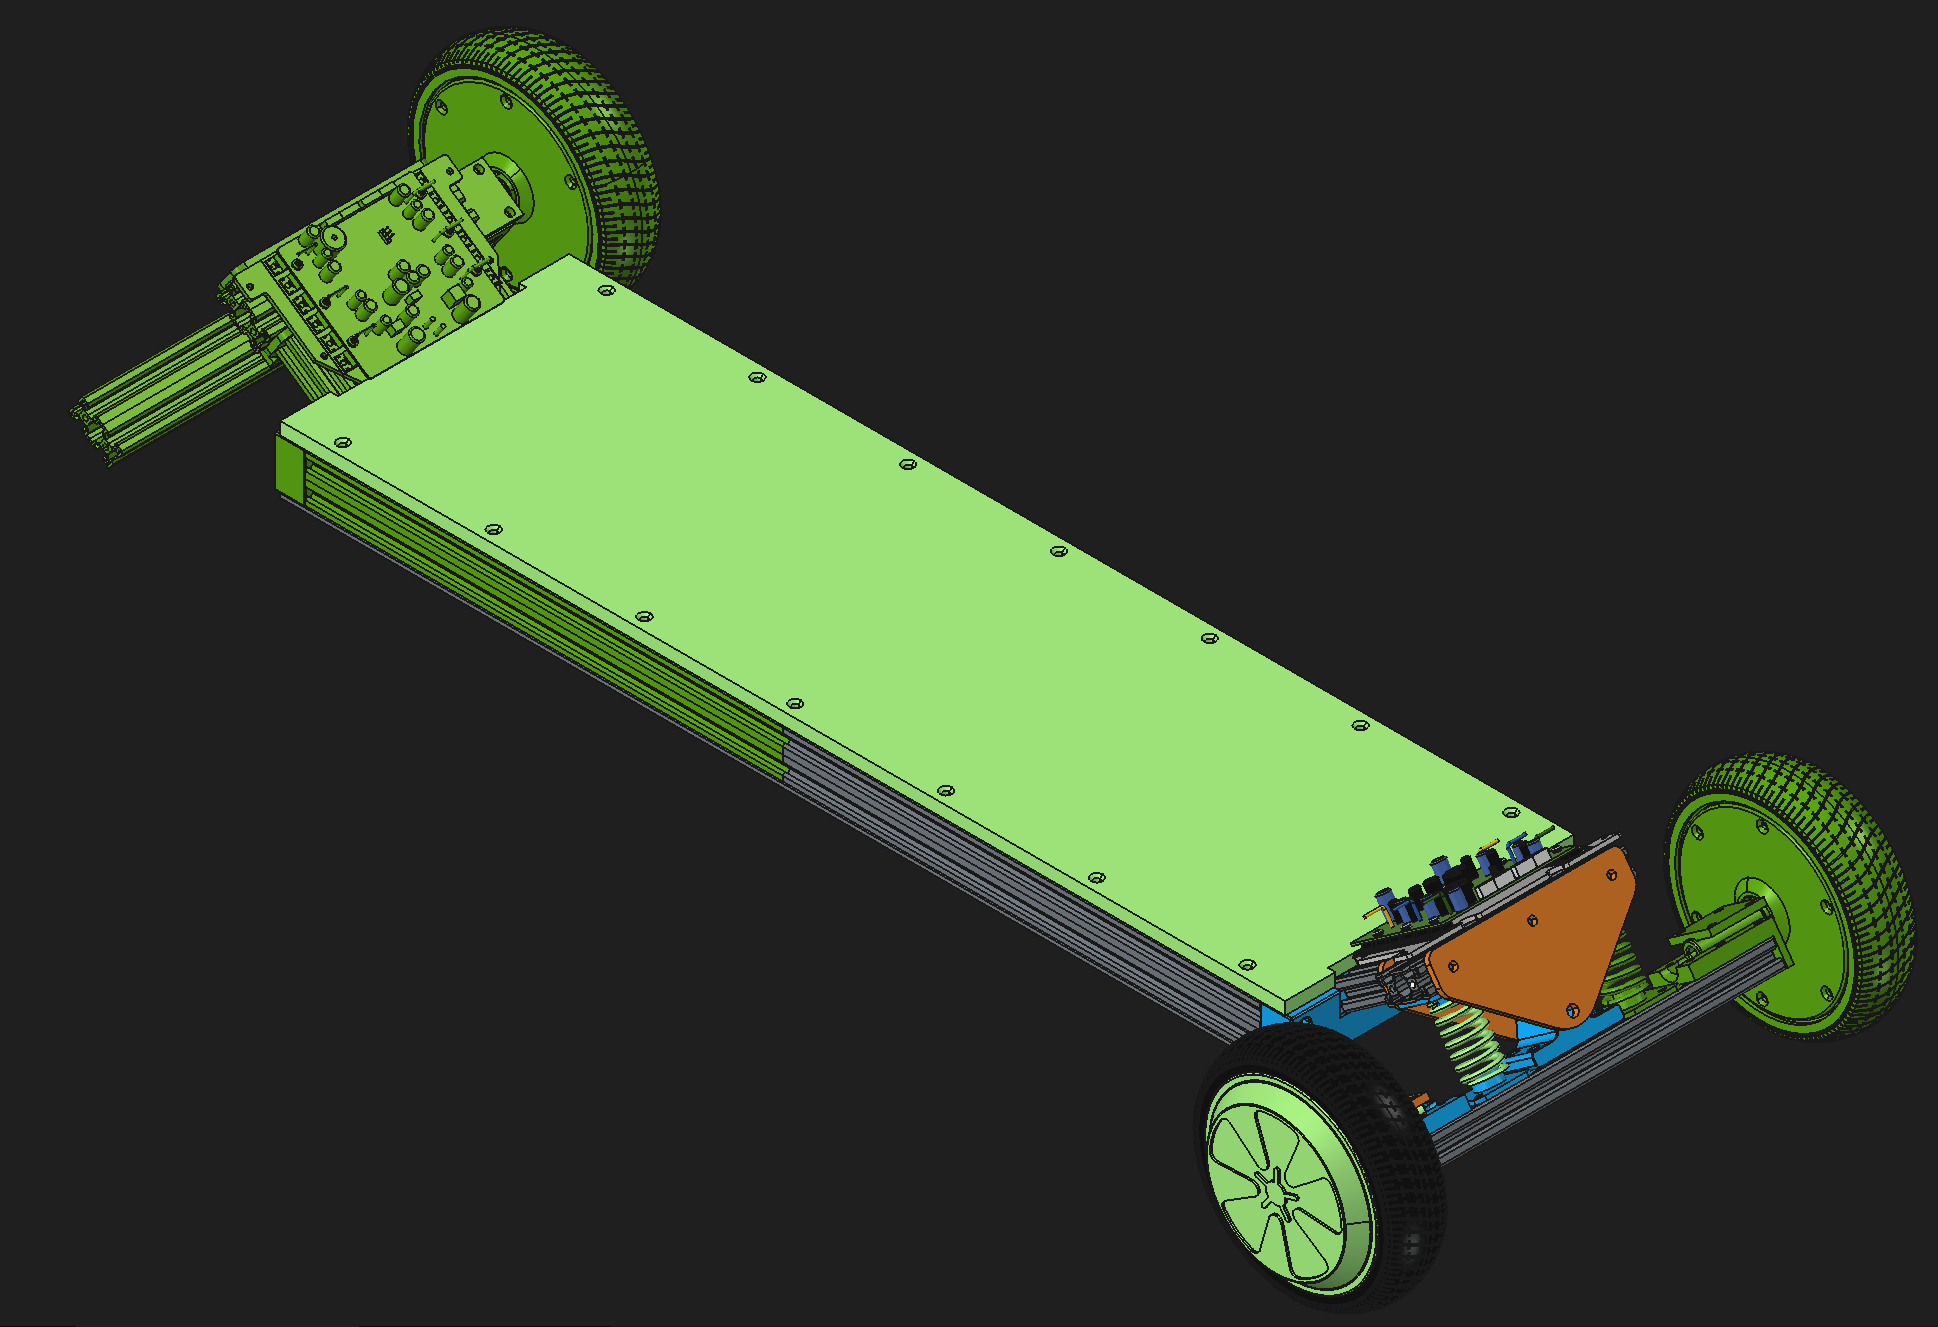
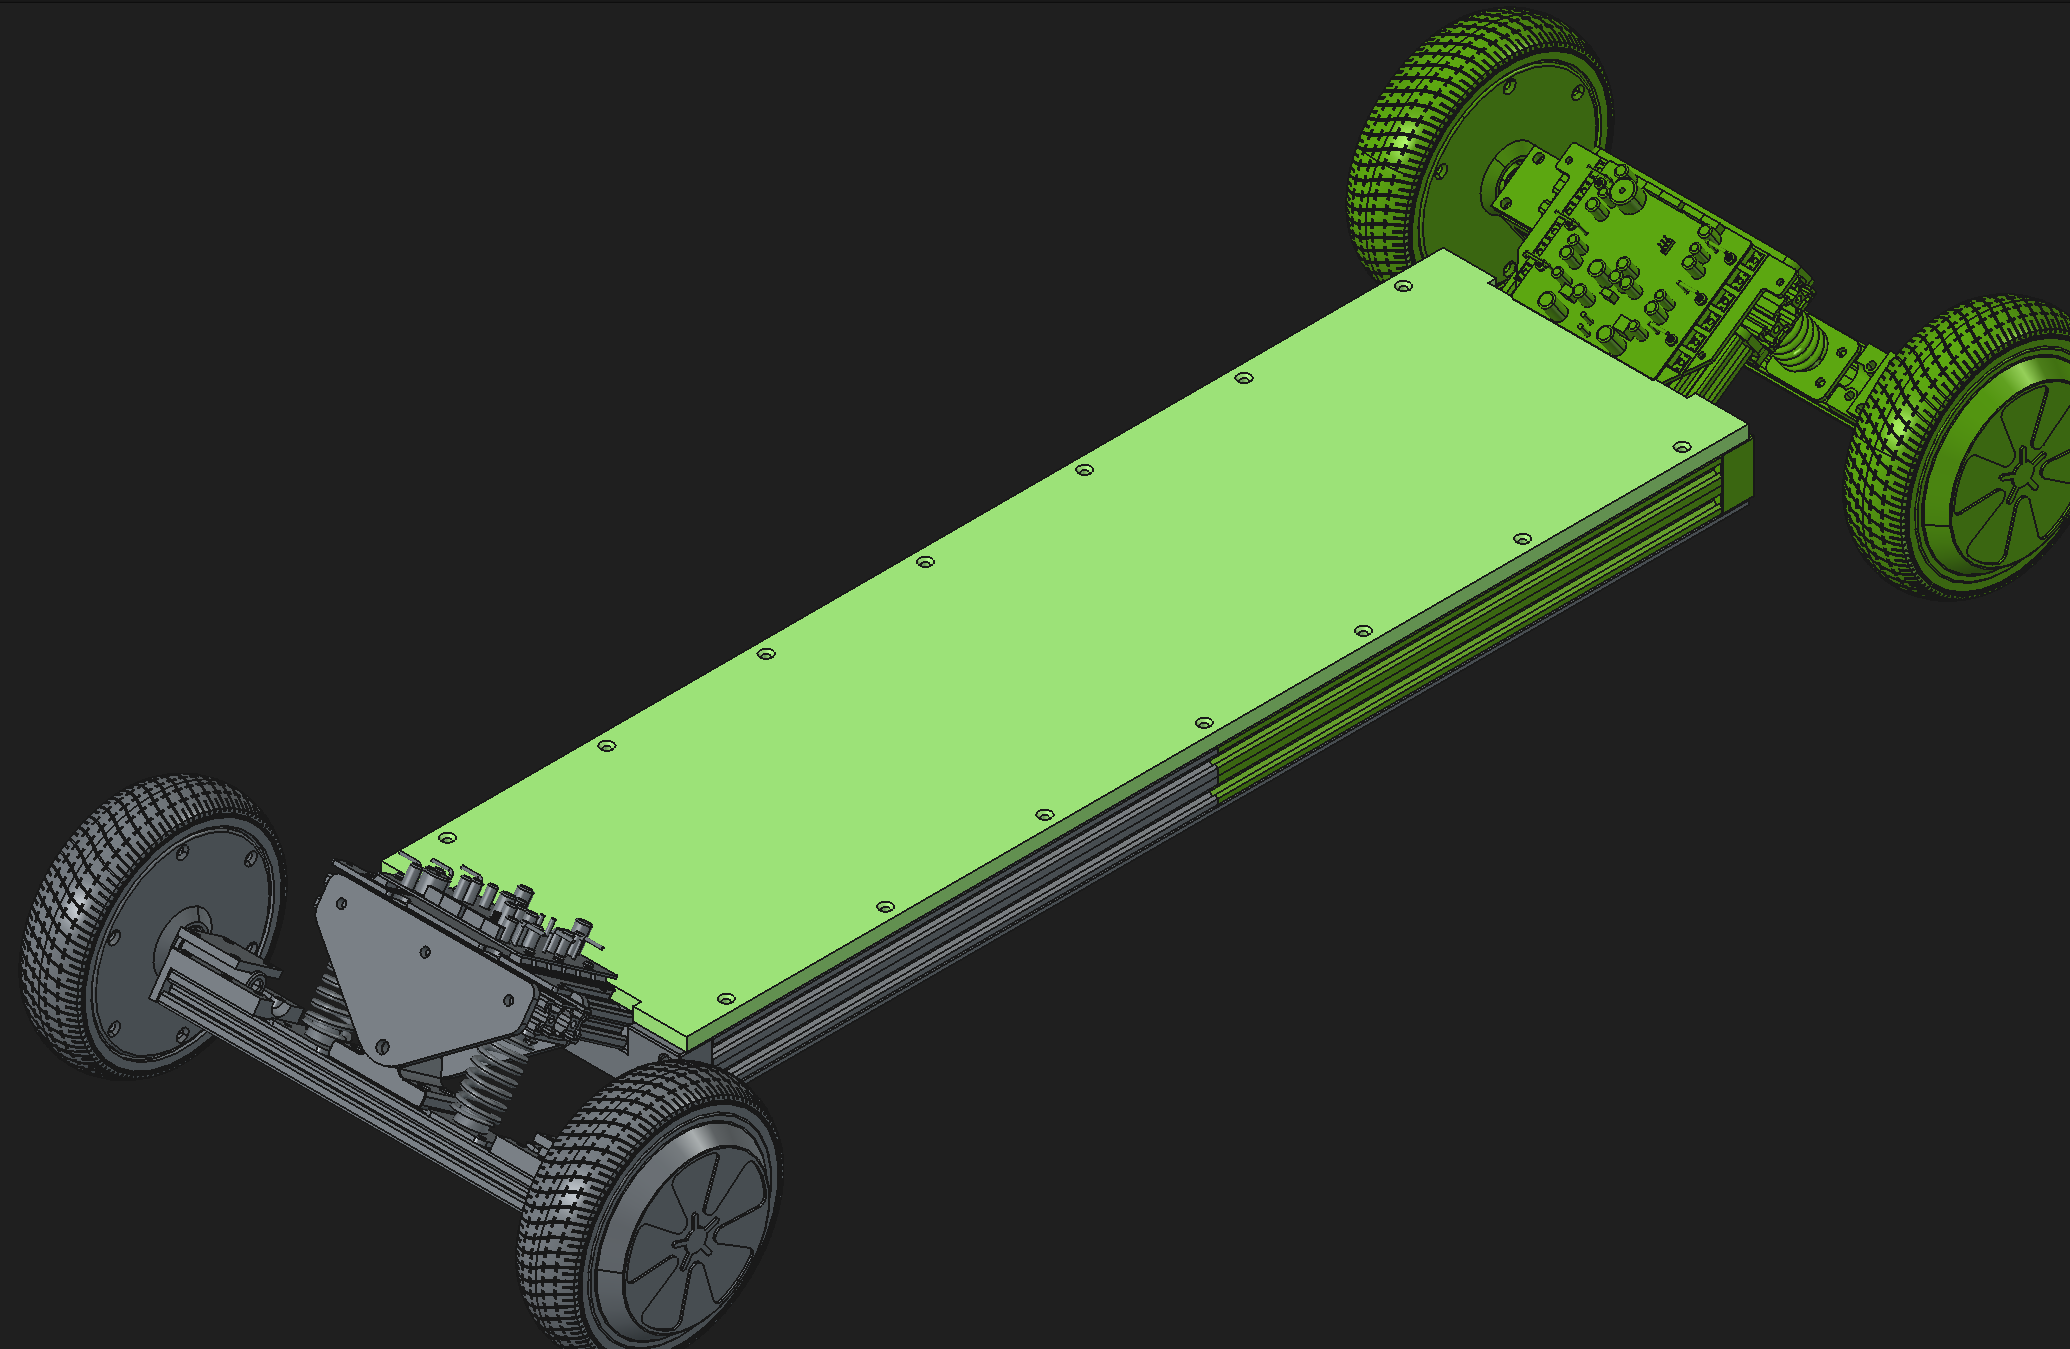
better image and improved readme

diff --git a/readme.md b/readme.md
@@ -1,10 +1,12 @@
 # ~~FOSSboard~~ ~~QuadCore~~? Hover Cruiser!
-An open source off-road mountainboard with hoverboard motors for wheels and power.  
+An open source off-road electric longboard/mountainboard/crosscountry made with upcycled parts from hoverboards!  
 Designed to be repairable, Open Source, easy to build and modifiable to your liking.  
+NGL I'm maybe overhyping it, feel free to make this project better by raising issues ans making PRs.  
 
-I've thought of ways on how to recycle old hoverboars and some kind of PEV came into my mind. And yeah a stable and powerfull one.  
+Whili dissasembling a few hoverboards and flashing them I've thought of ways on how to recycle old hoverboars and the thought oh making some kind of PEV came into my mind. And yeah a stable and powerfull one. Atleast after trying to make a OneWheel clone.  
 
-![](/images/Prototype.png)  
+![](/images/BoardIso.png)  
+![](/Electronics%20diagram.drawio.png)  
 
 ## Design consideration
 - Custom designed powerfull VESC
@@ -14,8 +16,9 @@ I've thought of ways on how to recycle old hoverboars and some kind of PEV came 
 ## Safety
 - the LiFePo4 battery is at low risk of battery explosions and fires
 - Off the shelf BMS as it's the only thing I don't want to mess with 🎇
-- DIY VESC is not proven and a bit dangerous lol.
-- Important values right on the controller so you can monitor while riding
+- ~~DIY VESC is not proven and a bit dangerous lol.~~
+- Upcycled ESC from old hoverboards.
+- ~~Important values right on the controller so you can monitor while riding~~
 - XT90 yaink out loop when shit goes bad - hopefully not 🤞
 
 ## Mostivation
@@ -31,20 +34,17 @@ https://www.youtube.com/watch?v=1y4zh5mAdzA
 https://www.wildcircuits.com/2016/10/electric-mountain-board.html  
 https://www.thingiverse.com/thing:4819536  
 
-## BOM - shortened TODO
-| Item               | QTY | Price | Link |
-| ------------------ | --- | ----- | ---- |
-| Frame, Deck        | -   |
-| Aluminium extrusion|
-|CNCed parts|
-| HW & bits and bops |
-| Hoverboard wheels  | 4   |
-| DIY 2ch VESC       | 2   |
-| Cables, Connectors|
-|BMS, LiFePo4 Batteries| 
-
-## BOM - Thomas / HC funding
-https://www.mujboardshop.cz/Trampa-TRUCK-4X-PRUZINY-d120.htm
+## BOM - overview
+| Item                     | QTY | Price | Link |
+| ------------------------ | --- | ----- | ---- |
+| Frame, Deck              | -   |
+| Aluminium extrusion      |
+| CNCed / 3D printed parts |
+| HW & bits and bops       |
+| Hoverboard wheels        | 4   |
+| ESC from hoverboards     | 2   |
+| Cables, Connectors       |
+| BMS, LiFePo4 Batteries   |
 
 ## cloning the repo
 This repo contains submodules.  
